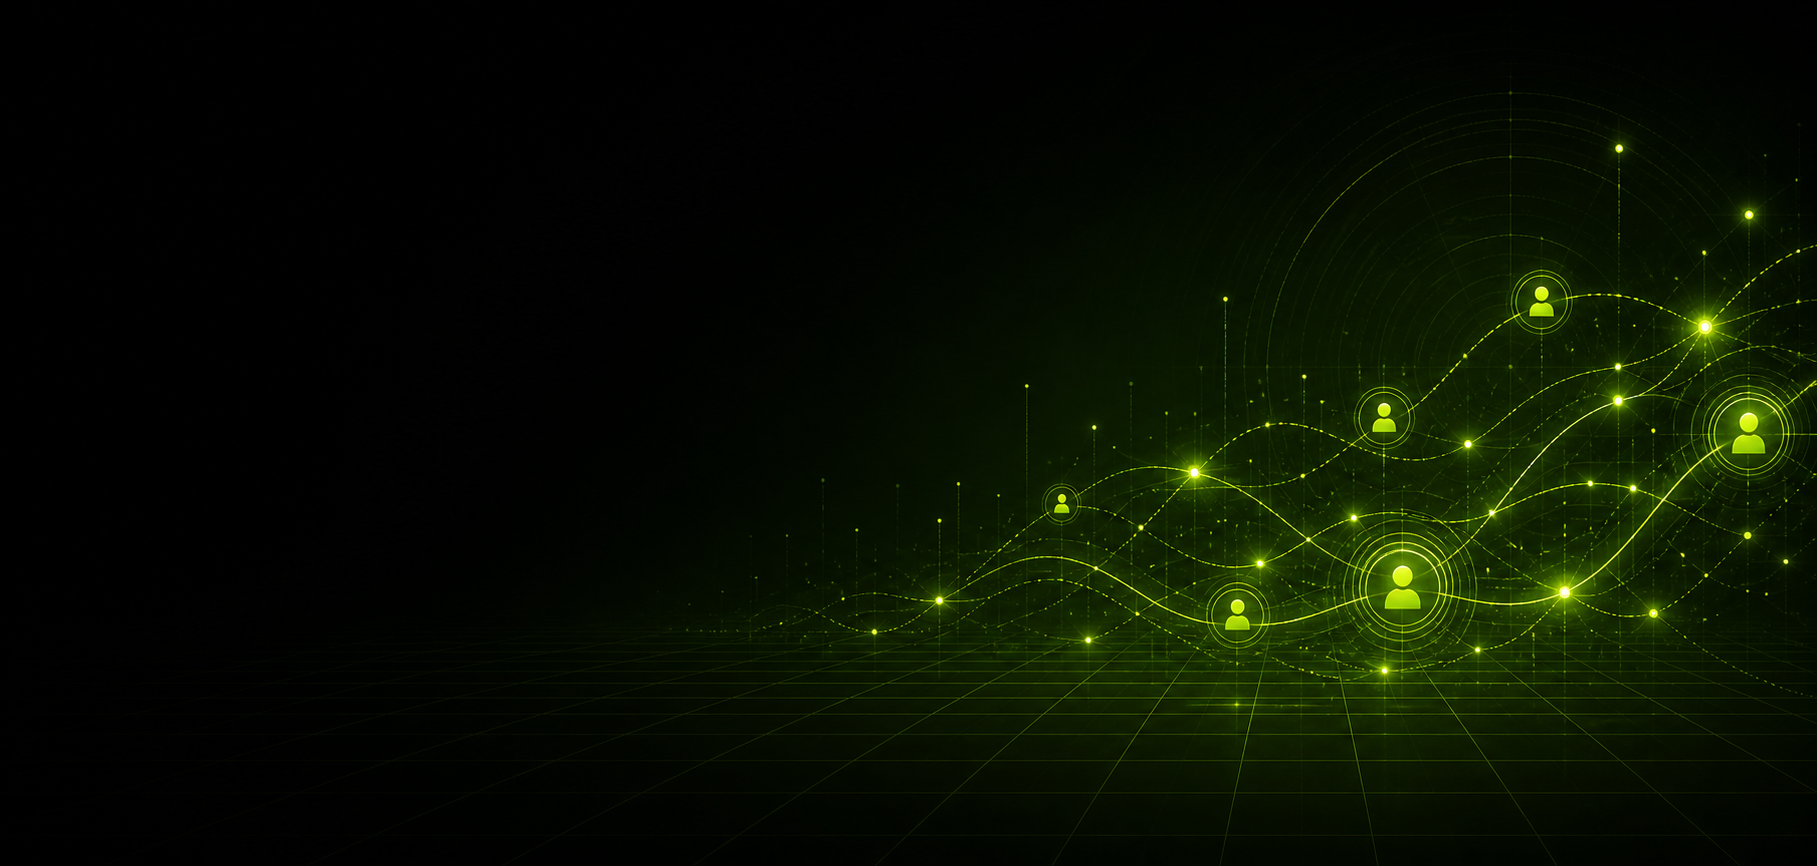
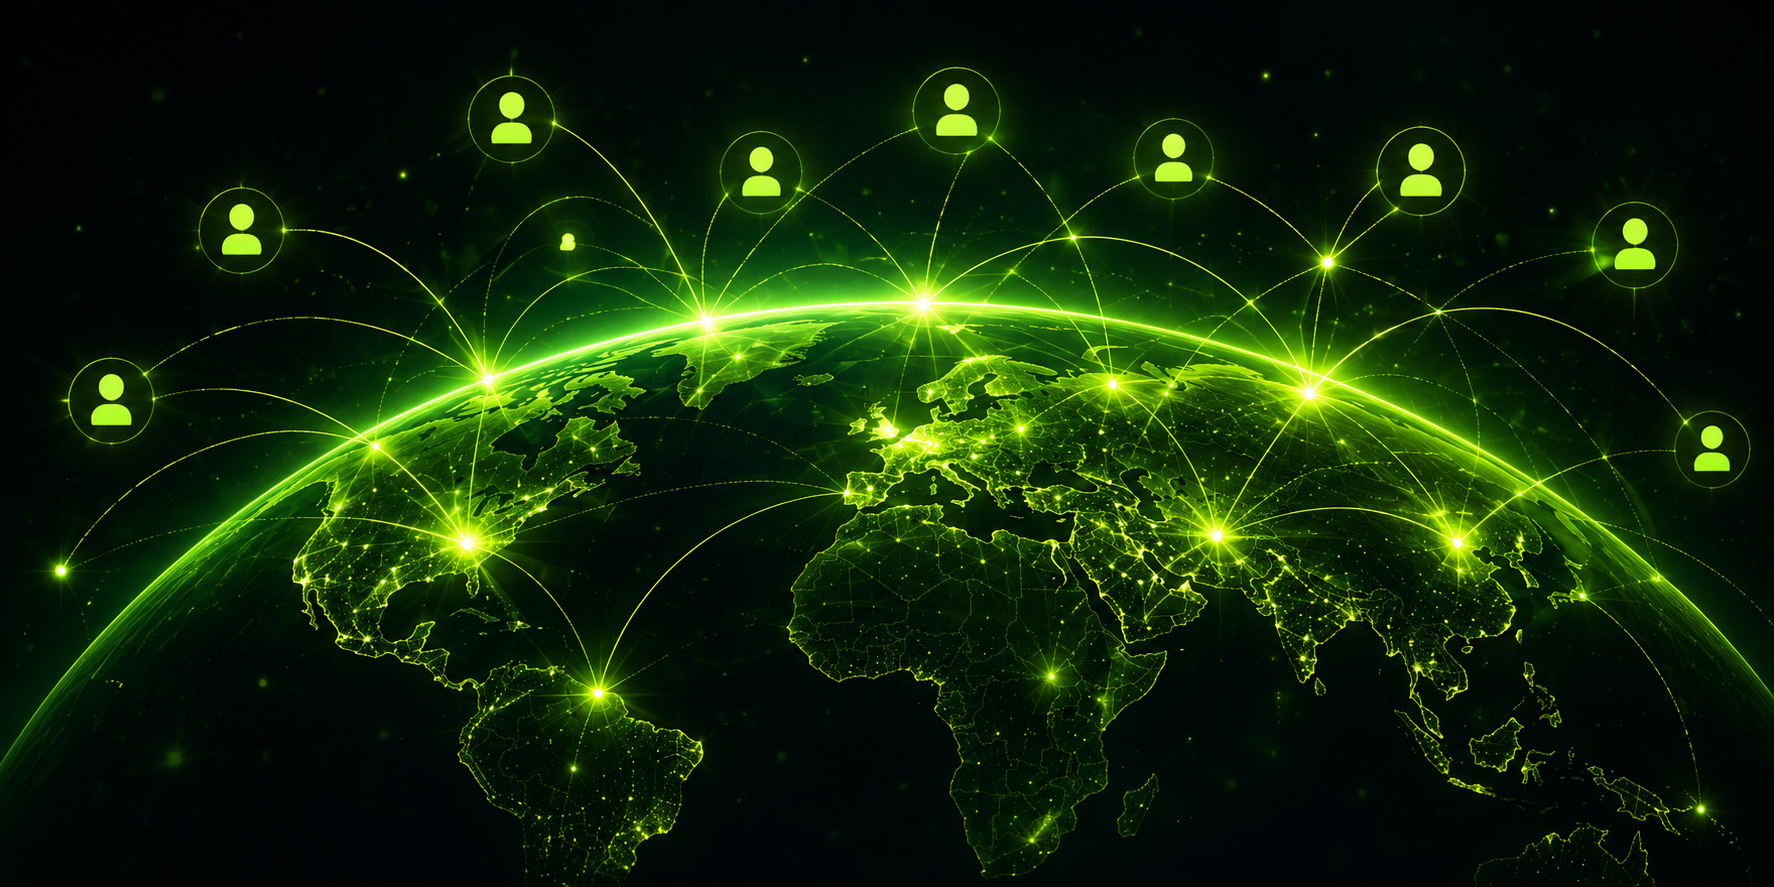
Update Community hero with dedicated background image

diff --git a/styles.css b/styles.css
@@ -8038,11 +8038,21 @@ body.theme-dark .file-upload-control:hover .file-upload-button {
 }
 
 .community-intelligence-header {
+  --app-hero-art: url("/assets/images/community-grow-hero-bg.png");
+  --app-hero-art-size: cover;
+  --app-hero-art-position: center right;
+  --app-hero-art-repeat: no-repeat;
+  --app-hero-overlay:
+    linear-gradient(90deg, rgba(5, 10, 8, 0.96) 0%, rgba(5, 10, 8, 0.84) 34%, rgba(5, 10, 8, 0.46) 58%, rgba(5, 10, 8, 0.12) 82%, rgba(5, 10, 8, 0.18) 100%),
+    linear-gradient(180deg, rgba(255, 255, 255, 0.034) 0%, rgba(255, 255, 255, 0.006) 100%);
   --app-hero-min-height: clamp(184px, 19vw, 252px);
   border-color: rgba(148, 209, 89, 0.14);
-  background:
-    radial-gradient(circle at 74% 18%, rgba(148, 209, 89, 0.12), transparent 34%),
-    linear-gradient(180deg, rgba(12, 20, 16, 0.96), rgba(5, 10, 8, 0.98));
+  background: linear-gradient(180deg, rgba(12, 20, 16, 0.96), rgba(5, 10, 8, 0.98));
+}
+
+.community-intelligence-header .app-hero-background {
+  filter: none;
+  opacity: 1;
 }
 
 .community-intelligence-header .app-hero-content {